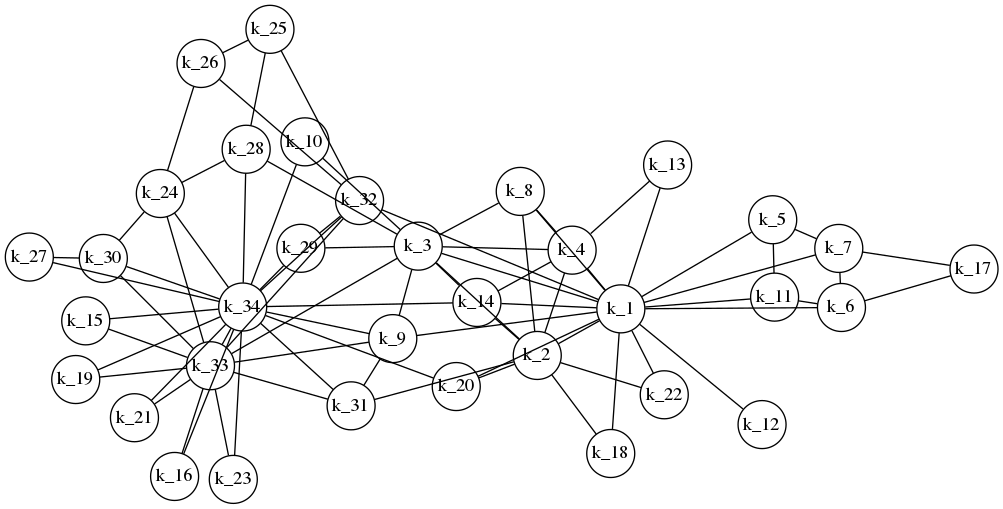
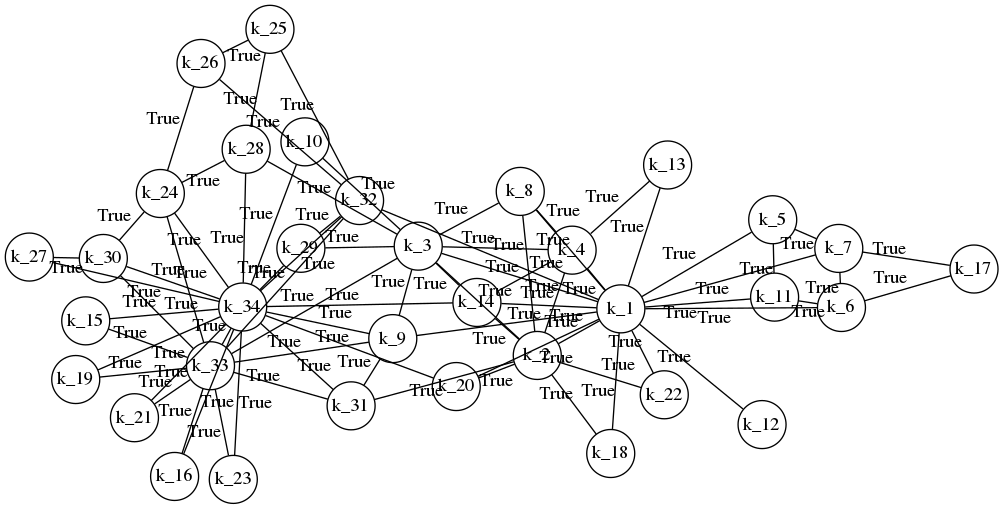
draw all properties on one graph.

diff --git a/graphony/relation.py b/graphony/relation.py
@@ -51,10 +51,13 @@ class Relation:
         else:
             self.A[source.n_id, destination.n_id] = weight
 
-    def draw(self, *args, **kwargs):
+    def draw(self, **kwargs):
         adj = self()
-        names = {i: self.graph._get_node_name(i) for i in set(adj.rows) | set(adj.cols)}
-        return draw_graph(adj, label_vector=names, *args, **kwargs)
+        if "label_vector" not in kwargs:
+            kwargs["label_vector"] = {
+                i: self.graph._get_node_name(i) for i in set(adj.rows) | set(adj.cols)
+            }
+        return draw_graph(adj, **kwargs)
 
     def __iadd__(self, relation):
         if isinstance(relation, tuple):
@@ -64,13 +67,13 @@ class Relation:
                 self.add(*i)
         return self
 
-    def __call__(self, *args, semiring=None, **kwargs):
+    def __call__(self, semiring=None, **kwargs):
         if not self.incidence:
             return self.A
 
         if semiring is None:
             semiring = INT64.any_secondi
-        return semiring(self.A, self.B, *args, **kwargs)
+        return semiring(self.A, self.B, **kwargs)
 
     def __iter__(self):
         if self.incidence:

diff --git a/graphony/tests/test_README.py b/graphony/tests/test_README.py
@@ -23,7 +23,7 @@ def _phm_setup_doctest_teardown(doctest_namespace, managenamespace):
     for k, v in additions.items():
         doctest_namespace[k] = v
     yield
-    # teardown code line 290.
+    # teardown code line 295.
     postgresql.teardown(pgdata)
 
     managenamespace(operation="clear")
@@ -154,10 +154,13 @@ def session_00012_line_239():
     r"""
     >>> p(list(G.friend))
     [friend(bob, alice), friend(bob, sal), friend(alice, jane), friend(alice, rick)]
+    >>> G.draw(weights=True, filename='docs/imgs/G_all_1')
+    <graphviz.dot.Digraph object at ...>
+
     """
 
 
-def session_00013_line_265():
+def session_00013_line_270():
     r"""
     >>> G.add_relation('karate')
     >>> G.karate += G.sql(
@@ -169,14 +172,14 @@ def session_00013_line_265():
     """
 
 
-def session_00014_line_279():
+def session_00014_line_284():
     r"""
     >>> len(G.karate)
     78
     """
 
 
-def session_00015_line_283():
+def session_00015_line_288():
     r"""
     >>> G
     <Graph [friend, coworker, distance, karate]: 86>

diff --git a/graphony/graph.py b/graphony/graph.py
@@ -209,6 +209,14 @@ class Graph:
                 for edge in rel:
                     yield edge
 
+    def draw(self, **kwargs):
+        g = None
+        for rid in self.relations:
+            rel = self.relations[rid]
+            kwargs["weight_prefix"] = f"{rel.name}: "
+            g = rel.draw(g=g, **kwargs)
+        return g
+
 
 def read_csv(graph, fname, encoding="utf8", **kw):
     """Read a csv file and accuulate it into a graph"""

diff --git a/README.md b/README.md
@@ -238,7 +238,12 @@ Relations can be iterated directly:
 ```python3
 >>> p(list(G.friend))
 [friend(bob, alice), friend(bob, sal), friend(alice, jane), friend(alice, rick)]
+>>> G.draw(weights=True, filename='docs/imgs/G_all_1')
+<graphviz.dot.Digraph object at ...>
+
 ```
+![G_all_1.png](docs/imgs/G_all_1.png)
+
 
 ## Graph Algorithms
 
